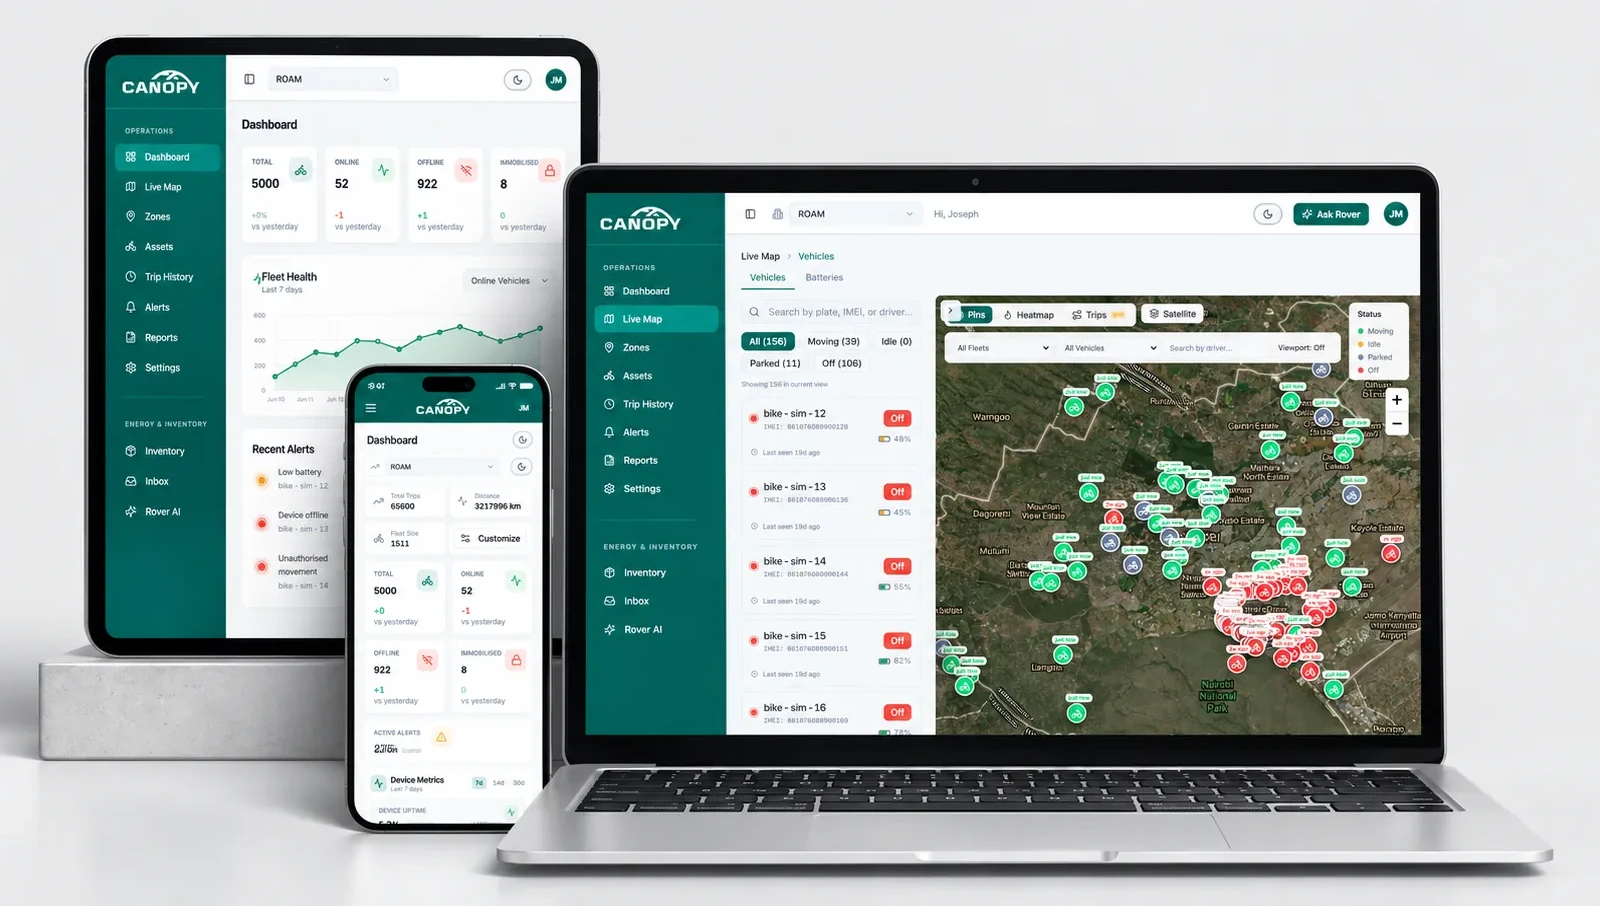
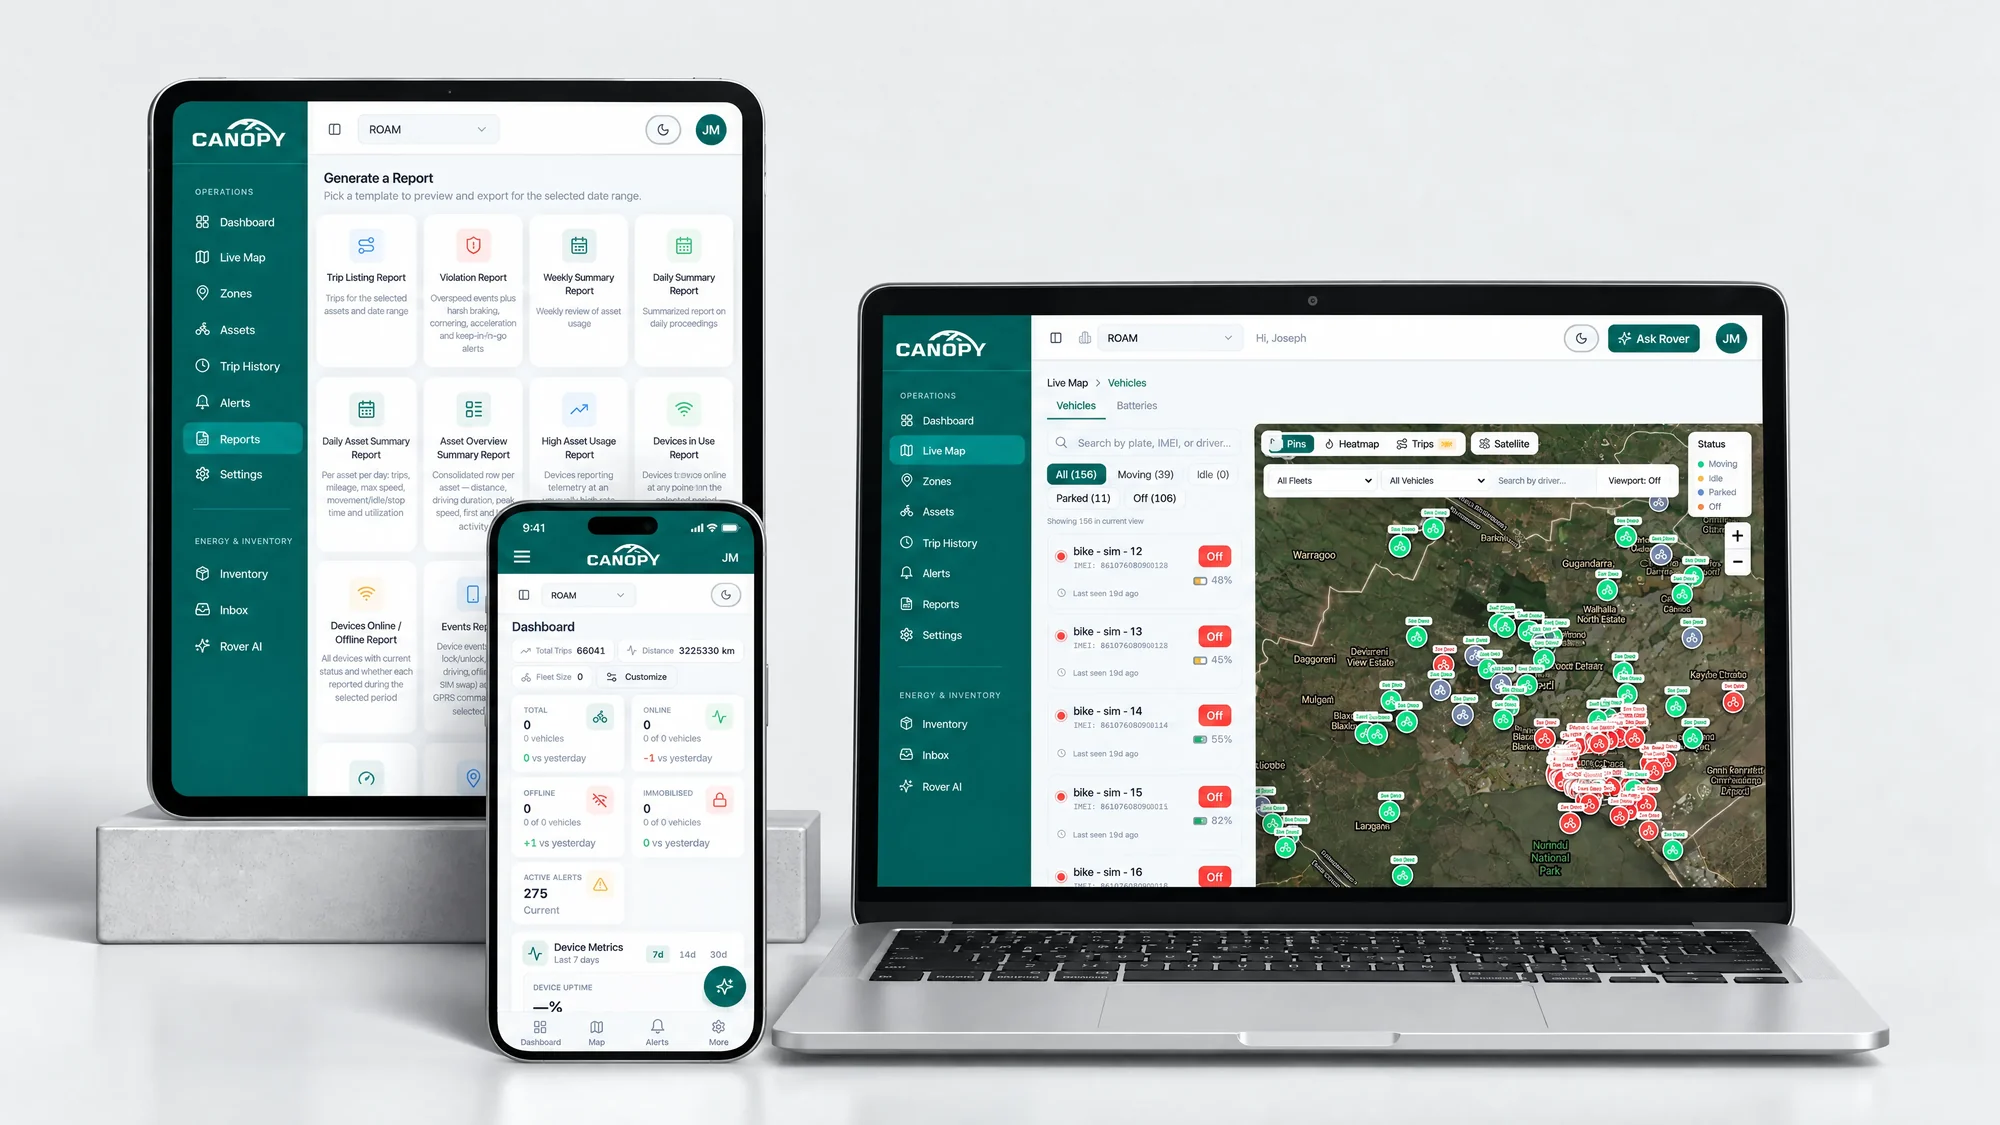
Across devices: new tablet + phone + laptop image
Claude-Session: https://claude.ai/code/session_019hg5JKm3Ajc1VUuZ1vD315

diff --git a/index.html b/index.html
@@ -111,7 +111,7 @@ p,h1,h2,h3,ul{margin:0}
 .top nav a:hover{color:var(--teal-deep)}
 .hero .wrap{display:grid;gap:28px}
 /* showcase (reusable): split editorial header, a large hero image, captions aligned under each device */
-.showcase{background:#EBEBEB;color:var(--ink);padding-block:clamp(106px,12vw,182px) clamp(72px,8vw,128px)}
+.showcase{background:#ECEDF0;color:var(--ink);padding-block:clamp(106px,12vw,182px) clamp(72px,8vw,128px)}
 .sc-head{display:grid;grid-template-columns:1fr;gap:clamp(14px,1.4vw,20px);justify-items:center;text-align:center}
 .sc-title .label{display:none}
 .sc-title .h-sec{max-width:none;margin-inline:auto}
@@ -120,7 +120,7 @@ p,h1,h2,h3,ul{margin:0}
 .sc-chips li{display:inline-flex;align-items:center;gap:9px;padding:9px 16px 9px 13px;border-radius:999px;background:rgba(255,255,255,.55);border:1px solid rgba(11,26,28,.1);font-size:.9rem;font-weight:600;color:var(--ink)}
 .sc-chips li::before{content:"";width:7px;height:7px;border-radius:50%;background:var(--teal-deep)}
 .showcase-media{position:relative;width:100%;margin-top:clamp(36px,4.5vw,72px)}
-.showcase-media .photo{display:block;width:100%;height:auto;-webkit-mask-image:linear-gradient(90deg,transparent,#000 3%,#000 97%,transparent),linear-gradient(180deg,transparent,#000 4%,#000 94%,transparent);-webkit-mask-composite:source-in;mask-image:linear-gradient(90deg,transparent,#000 3%,#000 97%,transparent),linear-gradient(180deg,transparent,#000 4%,#000 94%,transparent);mask-composite:intersect}
+.showcase-media .photo{display:block;width:100%;height:auto;-webkit-mask-image:linear-gradient(90deg,transparent,#000 9%,#000 91%,transparent),linear-gradient(180deg,transparent,#000 10%,#000 88%,transparent);-webkit-mask-composite:source-in;mask-image:linear-gradient(90deg,transparent,#000 9%,#000 91%,transparent),linear-gradient(180deg,transparent,#000 10%,#000 88%,transparent);mask-composite:intersect}
 .showcase-media.has-upload > .default-pic{display:none}
 .showcase-media:not(.has-media){aspect-ratio:16/8.8;border-radius:24px;background:rgba(11,26,28,.05)}
 .sc-caps{display:grid;grid-template-columns:76fr 24fr;gap:clamp(20px,3vw,48px);margin-top:clamp(20px,2.4vw,32px);padding-inline:3%}
@@ -1124,7 +1124,7 @@ p,h1,h2,h3,ul{margin:0}
           </ul>
         </div>
       </div>
-      <div class="showcase-media has-media" data-slot="devices" data-slot-l="Devices image (laptop + phone mockup)" data-default-media="images/devices.webp"><picture class="default-pic"><img class="photo" src="images/devices.webp" alt="Canopy on a tablet, a phone and a laptop: the fleet dashboard and the live map" width="1600" height="906" loading="lazy"></picture></div>
+      <div class="showcase-media has-media" data-slot="devices" data-slot-l="Devices image (laptop + phone mockup)" data-default-media="images/devices.webp"><picture class="default-pic"><img class="photo" src="images/devices.webp?v=2" alt="Canopy on a tablet, a phone and a laptop: the reports library, the mobile dashboard and the live fleet map" width="2000" height="1125" loading="lazy"></picture></div>
     </div>
   </section>
 
